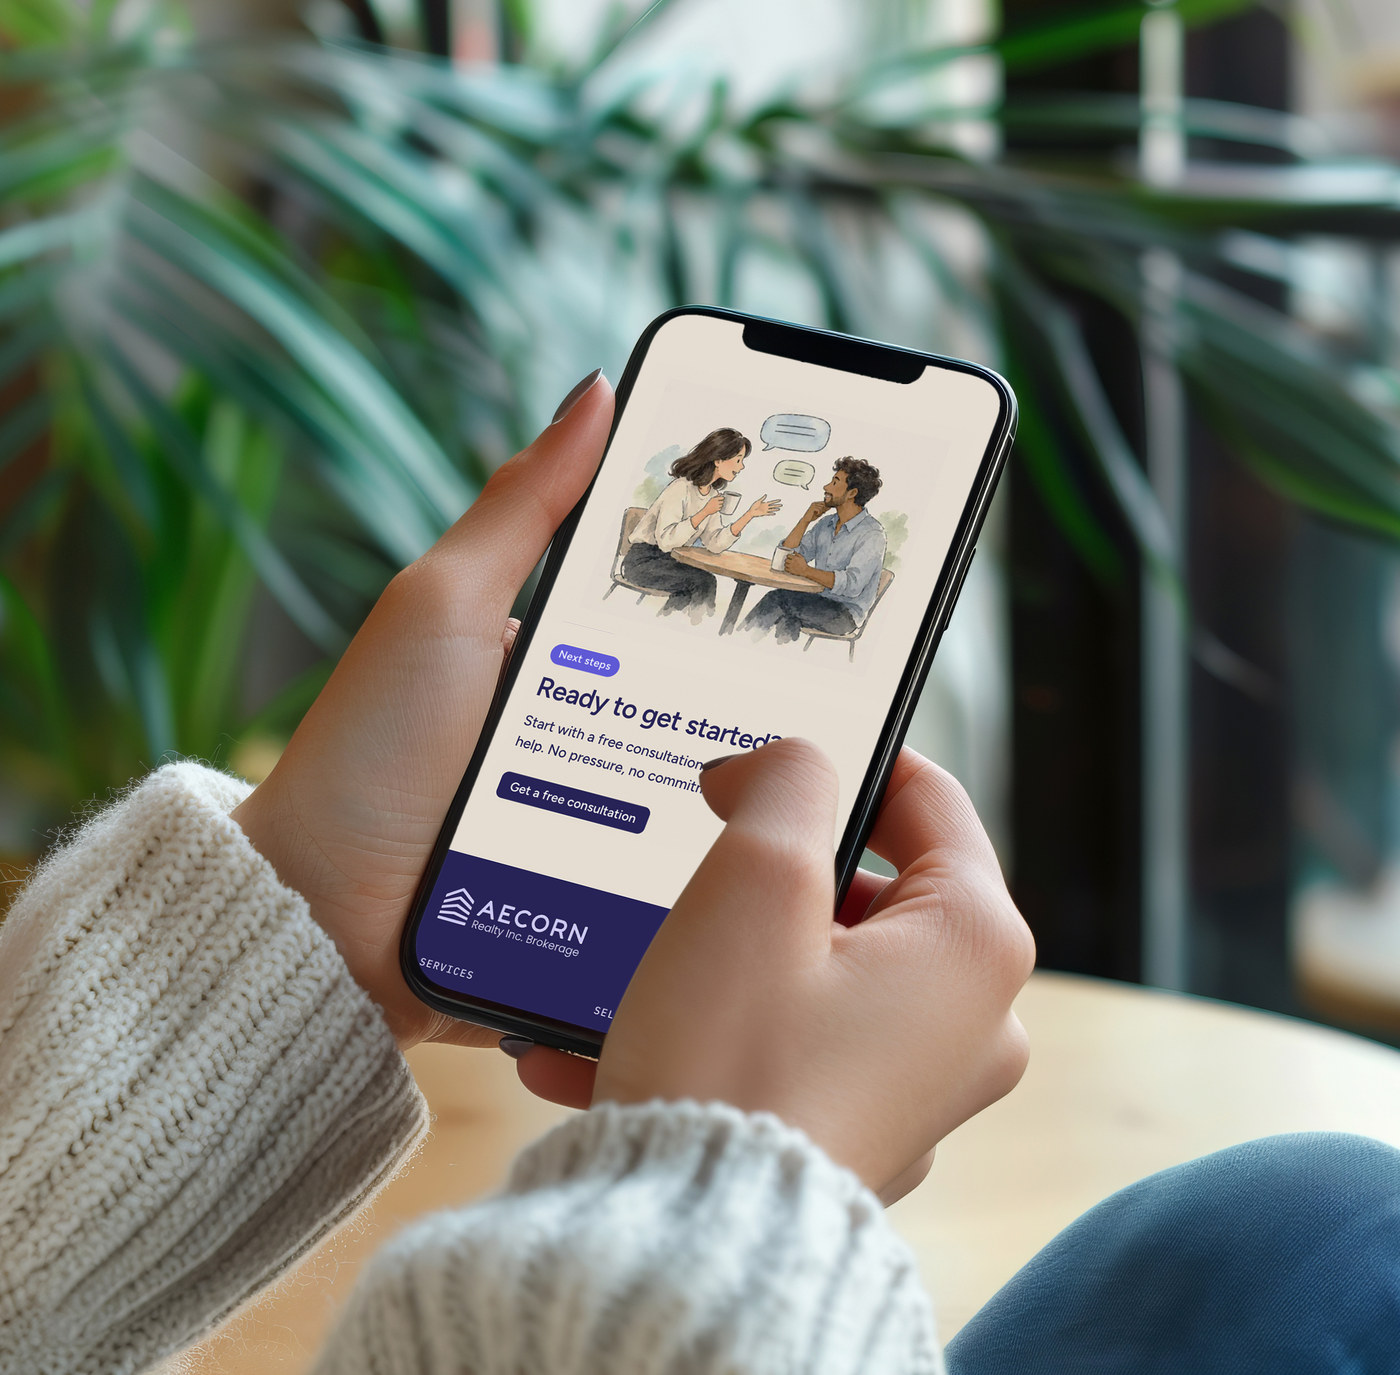
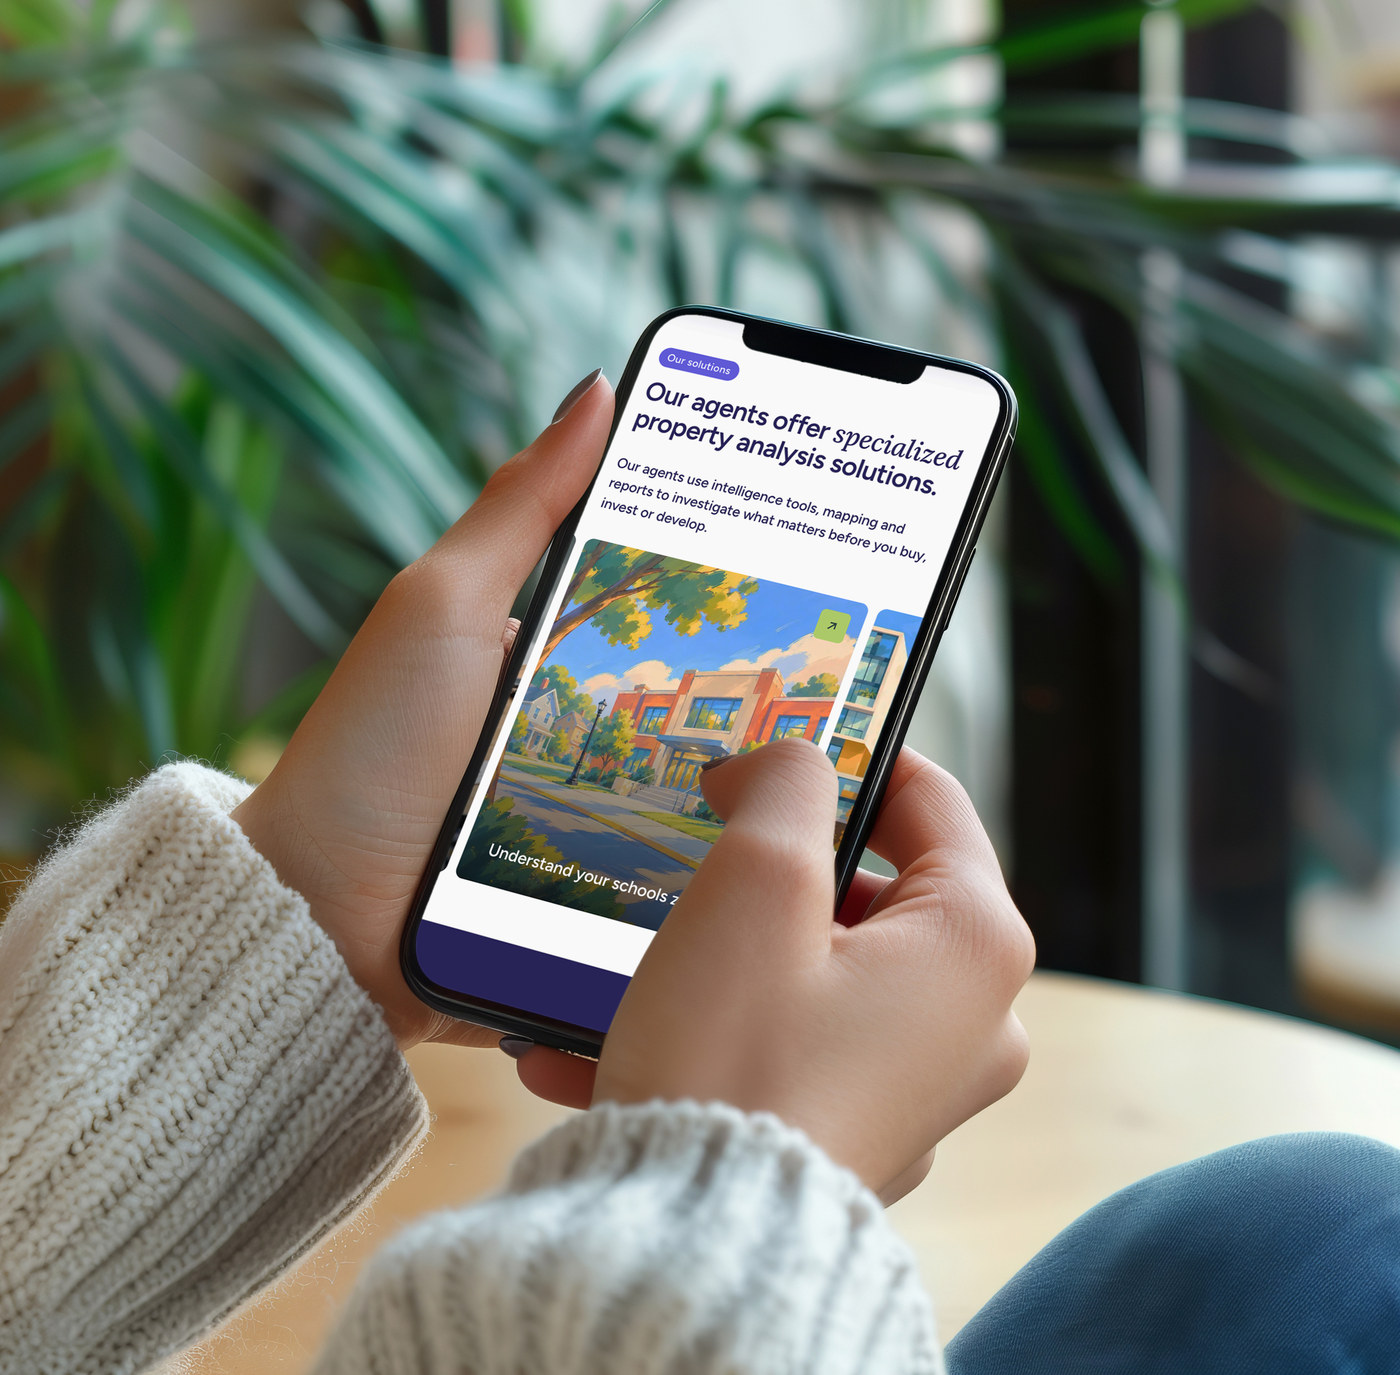
AECORN draft: replace phone mockup

Changed region(s): [[0.3071, 0.2138, 0.7371, 0.7331]]

diff --git a/design/Project - AECORN Realty.dc.html b/design/Project - AECORN Realty.dc.html
@@ -297,7 +297,7 @@
 
   <div style="display:grid;grid-template-columns:repeat(12,minmax(0,1fr));gap:24px;">
     <img src="img/aecorn-blog-tablet.jpg" alt="AECORN blog article about winter shown on a tablet held in two hands" style="grid-column:{{ col.span8 }};display:block;width:100%;height:auto;">
-    <div style="grid-column:{{ col.span4 }};position:relative;aspect-ratio:{{ col.ar4 }};"><img src="img/aecorn-blog-phone.jpg" alt="AECORN website consultation page with a watercolour illustration on a phone held in two hands" style="position:absolute;inset:0;display:block;width:100%;height:100%;object-fit:cover;"></div>
+    <div style="grid-column:{{ col.span4 }};position:relative;aspect-ratio:{{ col.ar4 }};"><img src="img/aecorn-blog-phone.jpg" alt="AECORN website solutions page with a school illustration on a phone held in two hands" style="position:absolute;inset:0;display:block;width:100%;height:100%;object-fit:cover;"></div>
   </div>
 
   <img src="img/aecorn-blog-pages.jpg" alt="Three AECORN blog article pages with different illustration styles on forest green" style="display:block;width:100%;height:auto;margin-top:24px;">
